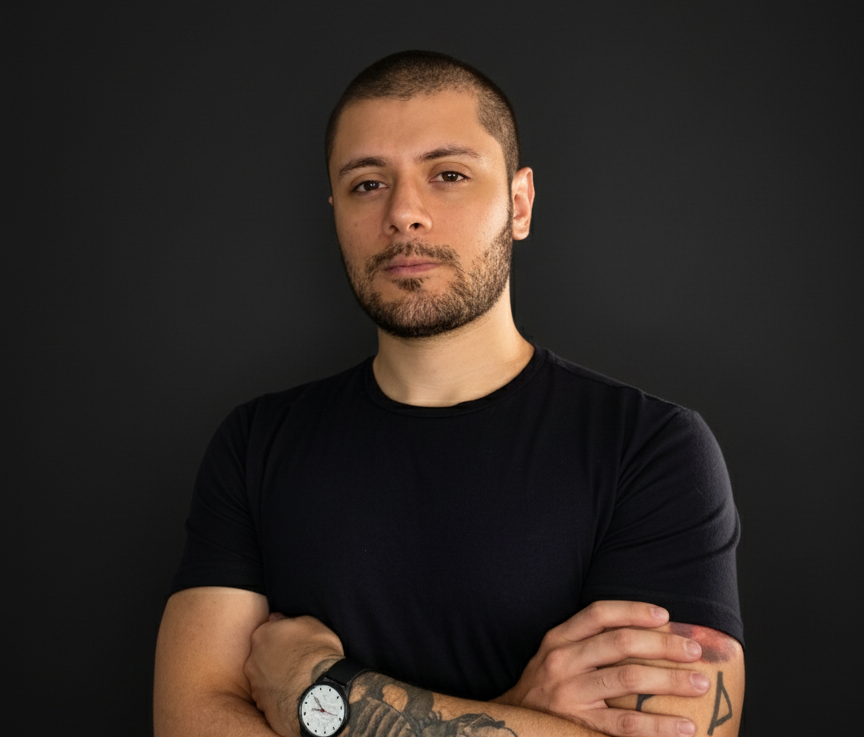
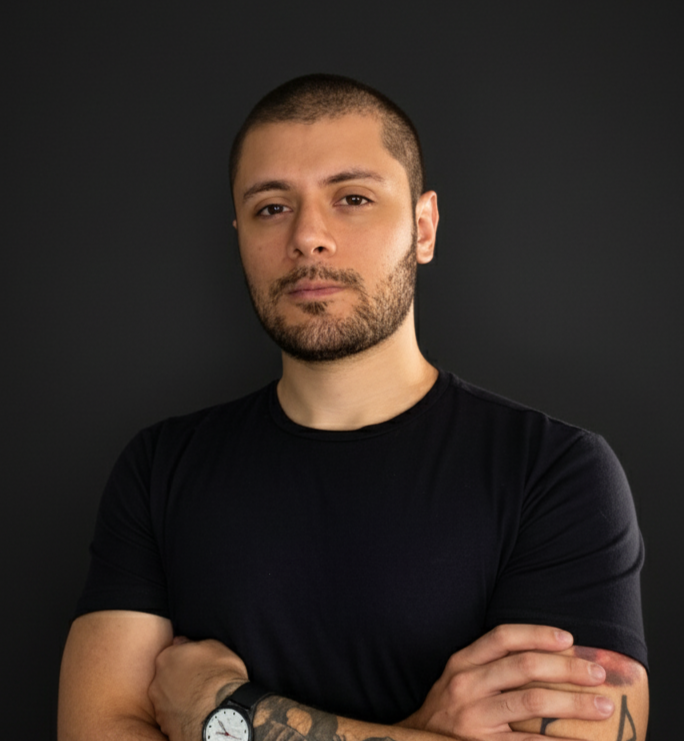
new changes

Changed region(s): [[0.0614, 0.5617, 0.9518, 1.0], [0.3377, 0.0624, 0.7061, 0.5929], [0.7368, 0.5305, 0.7982, 0.5617]]

diff --git a/components/ProjectsSection.tsx b/components/ProjectsSection.tsx
@@ -8,18 +8,10 @@ const projects = [
   {
     name: "Gestión de Datos — Fundación Sembrando Amor",
     description:
-      "Proyecto freelance desarrollado para una ONG colombiana. Diseñé una aplicación en Streamlit para la carga, visualización y control de datos de beneficiarios, desplegada en Google Cloud Platform. El sistema permitió reducir en un 80% los errores de registro y mejorar la trazabilidad del seguimiento social.",
-    image: "/sembrandoamor.png",
-    github: "#", // Si querés lo enlazamos luego al repo privado o demo
-    link: "https://sembrandoamor.streamlit.app/",
-  },
-  {
-    name: "Optima Consulting & Management LLC",
-    description:
-      "Cofundador y responsable del área de analítica. Implementé dashboards financieros, automatizaciones RPA y modelos de datos para instituciones y traders. Integramos tecnología avanzada con un enfoque humano para el análisis financiero.",
-    image: "/optima.png",
-    github: "https://github.com/fedeheisemberg/Optima-Landing-Page",
-    link: "https://www.optimafinancials.com/",
+      "Proyecto freelance desarrollado para una ONG colombiana. Diseñé una aplicación en Streamlit para la carga, visualización y control de datos de beneficiarios, desplegada en Google Cloud Platform. El sistema permitió reducir en un 80% los errores de registro y mejorar la trazabilidad del seguimiento social. (Proyecto bajo acuerdo de confidencialidad, sin acceso público a código o demo.)",
+    image: "/sembrando amor.png",
+    github: null,
+    link: null,
   },
   {
     name: "OptionsPro Dashboard",
@@ -28,6 +20,14 @@ const projects = [
     image: "/dashboard.PNG",
     github: "#",
     link: "https://optimaoptionspro.streamlit.app/",
+  },
+  {
+    name: "Optima Consulting & Management LLC (2023–2025)",
+    description:
+      "Cofundador y responsable del área de analítica. Implementé dashboards financieros, automatizaciones RPA y modelos de datos para instituciones y traders. Integramos tecnología avanzada con un enfoque humano para el análisis financiero.",
+    image: "/optima.png",
+    github: "https://github.com/fedeheisemberg/Optima-Landing-Page",
+    link: "https://www.optimafinancials.com/",
   },
   {
     name: "Modelo de Machine Learning — Puntaje Crediticio",
@@ -54,9 +54,9 @@ const projects = [
     link: "https://share.streamlit.io/user/fedeheisemberg",
   },
   {
-    name: "Canal de YouTube — Quant Finance",
+    name: "Canal de YouTube — Data Finance",
     description:
-      "Canal educativo donde enseño programación en Python aplicada a las finanzas y opciones financieras. Enfocado en la divulgación técnica y la formación de futuros analistas cuantitativos.",
+      "Canal educativo donde enseño aplicaciones financieras en Python. Enfocado en la divulgación técnica.",
     image: "/github.png",
     github: "https://github.com/fedeheisemberg",
     link: "https://www.youtube.com/@FedeMartinezQuantFinance",
@@ -68,7 +68,7 @@ const ProjectsSection = () => {
     <section id="projects">
       <h1 className="my-10 text-center font-bold text-4xl">
         Proyectos destacados
-        <hr className="w-6 h-1 mx-auto my-4 bg-teal-500 border-0 rounded"></hr>
+        <hr className="w-6 h-1 mx-auto my-4 bg-teal-500 border-0 rounded" />
       </h1>
 
       <div className="flex flex-col space-y-28">
@@ -76,17 +76,28 @@ const ProjectsSection = () => {
           <div key={idx}>
             <SlideUp offset="-300px 0px -300px 0px">
               <div className="flex flex-col animate-slideUpCubiBezier animation-delay-2 md:flex-row md:space-x-12">
+                
                 {/* Imagen */}
                 <div className="md:w-1/2">
-                  <Link href={project.link} target="_blank">
+                  {project.link ? (
+                    <Link href={project.link} target="_blank" rel="noopener noreferrer">
+                      <Image
+                        src={project.image}
+                        alt={project.name}
+                        width={1000}
+                        height={1000}
+                        className="rounded-xl shadow-xl hover:opacity-80 transition-all duration-300"
+                      />
+                    </Link>
+                  ) : (
                     <Image
                       src={project.image}
                       alt={project.name}
                       width={1000}
                       height={1000}
-                      className="rounded-xl shadow-xl hover:opacity-80 transition-all duration-300"
+                      className="rounded-xl shadow-xl opacity-90"
                     />
-                  </Link>
+                  )}
                 </div>
 
                 {/* Descripción */}
@@ -97,24 +108,32 @@ const ProjectsSection = () => {
                   <p className="text-lg leading-7 mb-6 text-neutral-700 dark:text-neutral-300">
                     {project.description}
                   </p>
-                  <div className="flex flex-row space-x-5">
-                    {project.github !== "#" && (
-                      <Link href={project.github} target="_blank">
-                        <BsGithub
-                          size={30}
-                          className="hover:-translate-y-1 transition-transform cursor-pointer"
-                          title="Ver código"
-                        />
-                      </Link>
-                    )}
-                    <Link href={project.link} target="_blank">
-                      <BsArrowUpRightSquare
-                        size={30}
-                        className="hover:-translate-y-1 transition-transform cursor-pointer"
-                        title="Ver proyecto"
-                      />
-                    </Link>
-                  </div>
+                  {project.github || project.link ? (
+                    <div className="flex flex-row space-x-5">
+                      {project.github && project.github !== "#" && (
+                        <Link href={project.github} target="_blank" rel="noopener noreferrer">
+                          <BsGithub
+                            size={30}
+                            className="hover:-translate-y-1 transition-transform cursor-pointer"
+                            title="Ver código"
+                          />
+                        </Link>
+                      )}
+                      {project.link && (
+                        <Link href={project.link} target="_blank" rel="noopener noreferrer">
+                          <BsArrowUpRightSquare
+                            size={30}
+                            className="hover:-translate-y-1 transition-transform cursor-pointer"
+                            title="Ver proyecto"
+                          />
+                        </Link>
+                      )}
+                    </div>
+                  ) : (
+                    <span className="text-sm italic text-neutral-500 dark:text-neutral-400">
+                      🔒 Proyecto confidencial
+                    </span>
+                  )}
                 </div>
               </div>
             </SlideUp>
@@ -126,5 +145,6 @@ const ProjectsSection = () => {
 };
 
 export default ProjectsSection;
+
 
 
